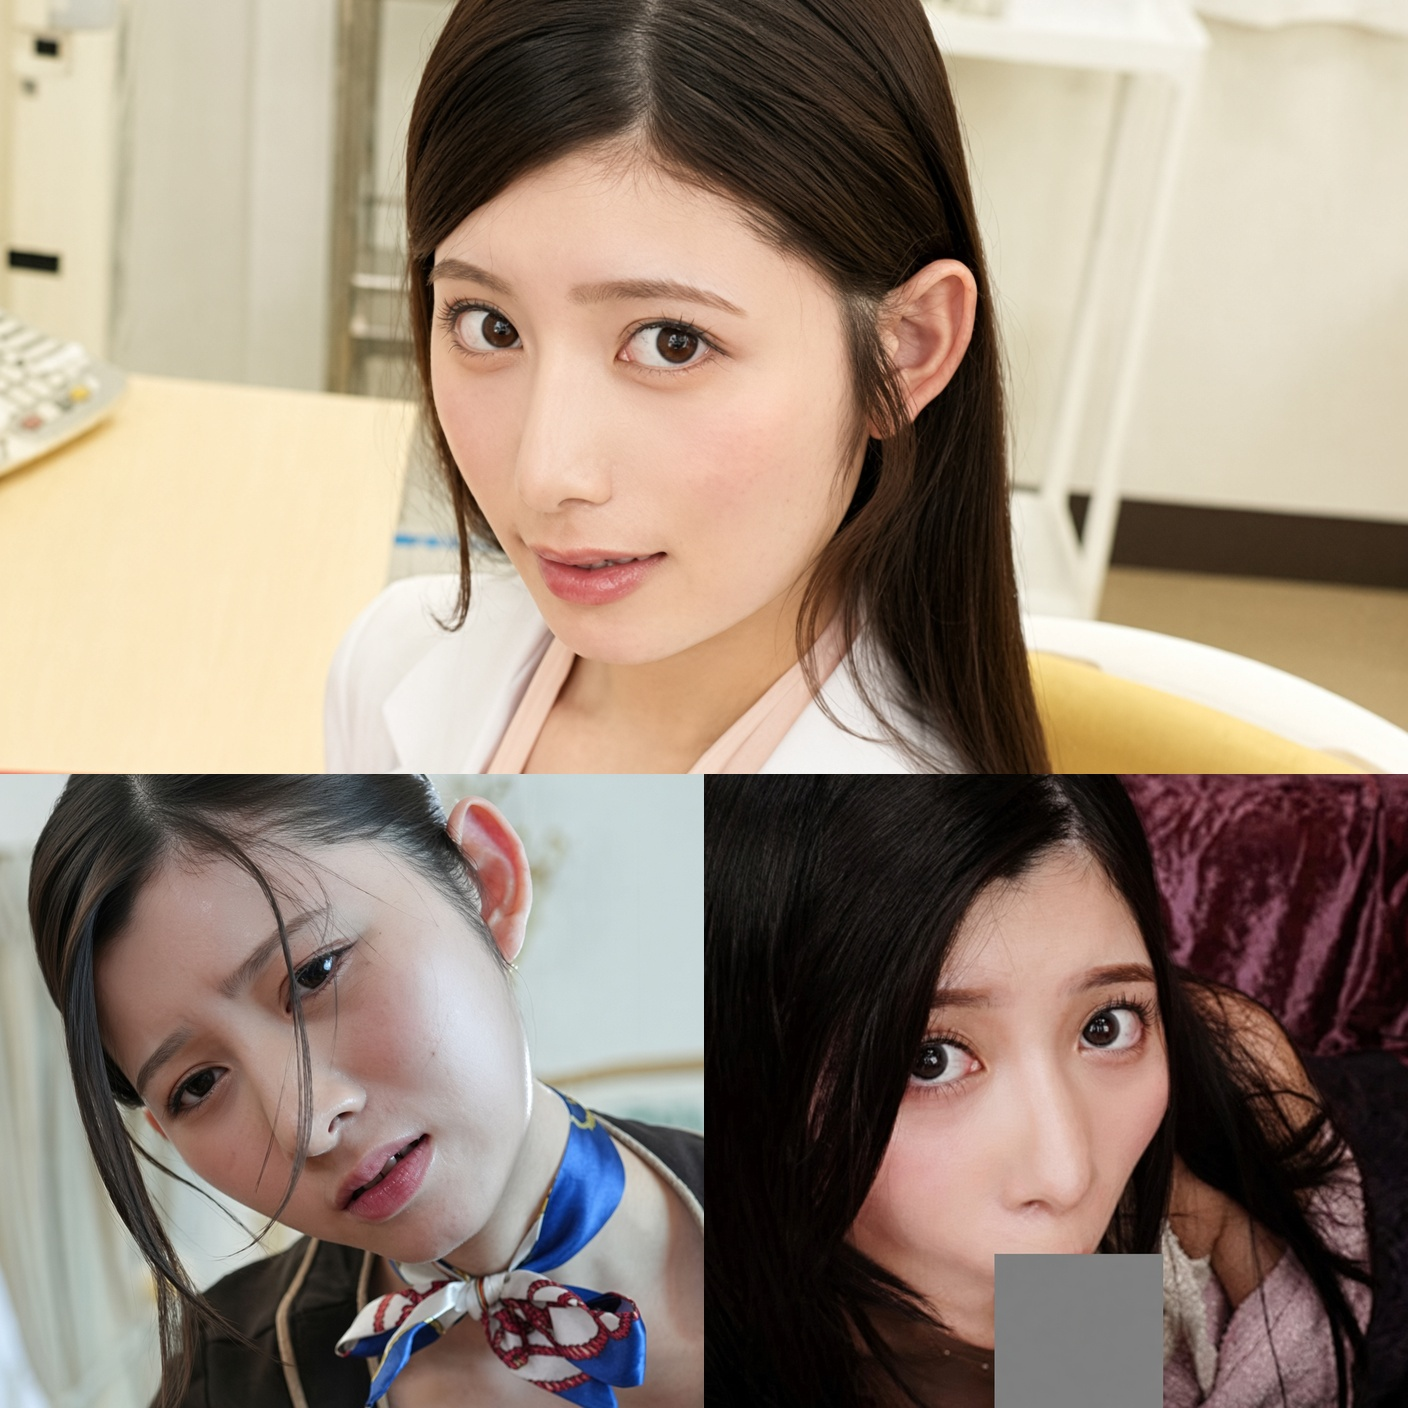
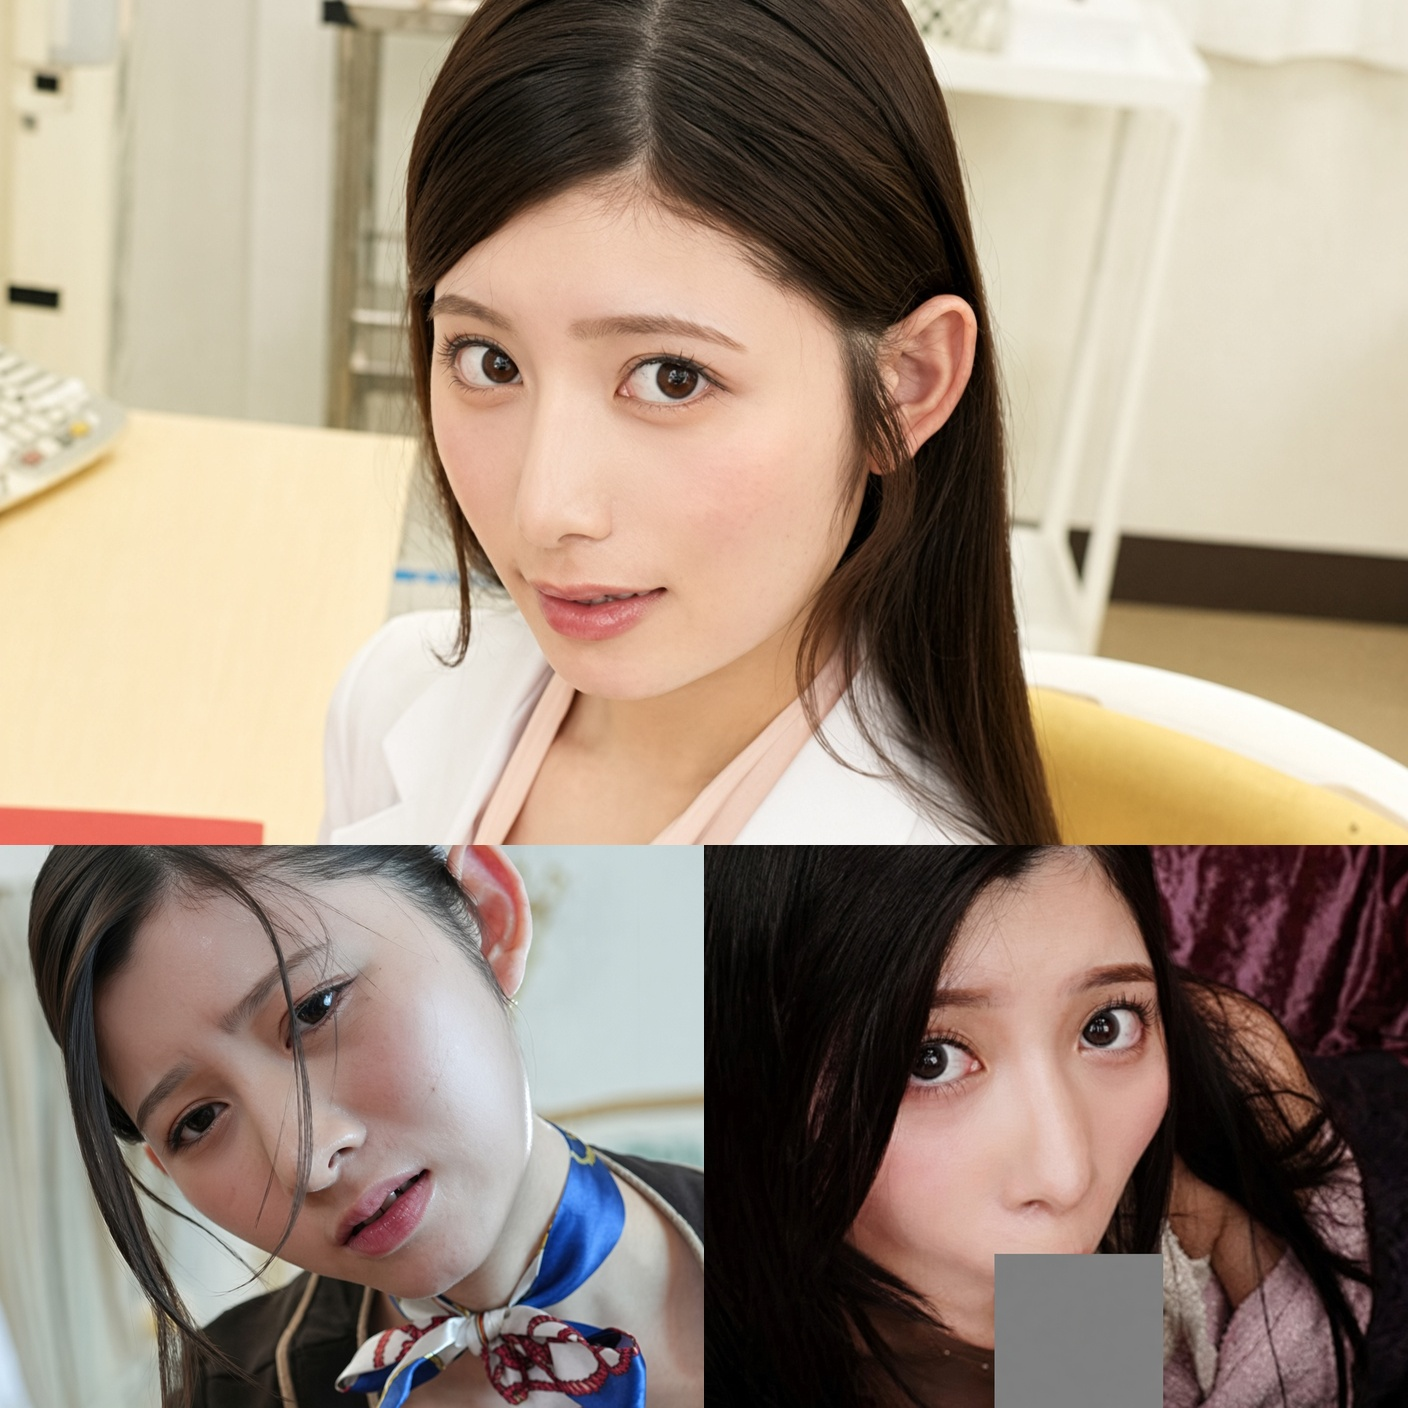
cover-collage: make 60% main panel the default
Claude-Session: https://claude.ai/code/session_016uwXnFPmfBGy3BLzQ9n8Jo

diff --git a/skills/cover-collage/scripts/collage.py b/skills/cover-collage/scripts/collage.py
@@ -43,7 +43,7 @@ def main():
     p.add_argument('sub2_img')
     p.add_argument('--out', default='collage.jpg')
     p.add_argument('--size', type=int, default=1408)
-    p.add_argument('--main-ratio', type=float, default=0.55)
+    p.add_argument('--main-ratio', type=float, default=0.60)
     for k in ('main', 'sub1', 'sub2'):
         p.add_argument(f'--{k}', type=parse_focus, default=[0.5, 0.5, 1.0])
     a = p.parse_args()

diff --git a/skills/cover-collage/SKILL.md b/skills/cover-collage/SKILL.md
@@ -7,9 +7,9 @@ description: 正方形素材3枚を「上に大きくメイン画像、下にサ
 
 ## レイアウト（既定 1408x1408）
 
-- メイン画像: 上側 1408x774（全幅、`--main-ratio 0.55`）
-- サブ画像1: 左下 704x634
-- サブ画像2: 右下 704x634
+- メイン画像: 上側 1408x845（全幅、`--main-ratio 0.60`）
+- サブ画像1: 左下 704x563
+- サブ画像2: 右下 704x563
 - メインとサブの高さ配分は `--main-ratio` で変える（参考元の画像は 920/1408 ≈ 0.653）
 - 隙間・枠線なし。各枠へは枠を埋めるよう拡大して切り抜く（cover）
 
